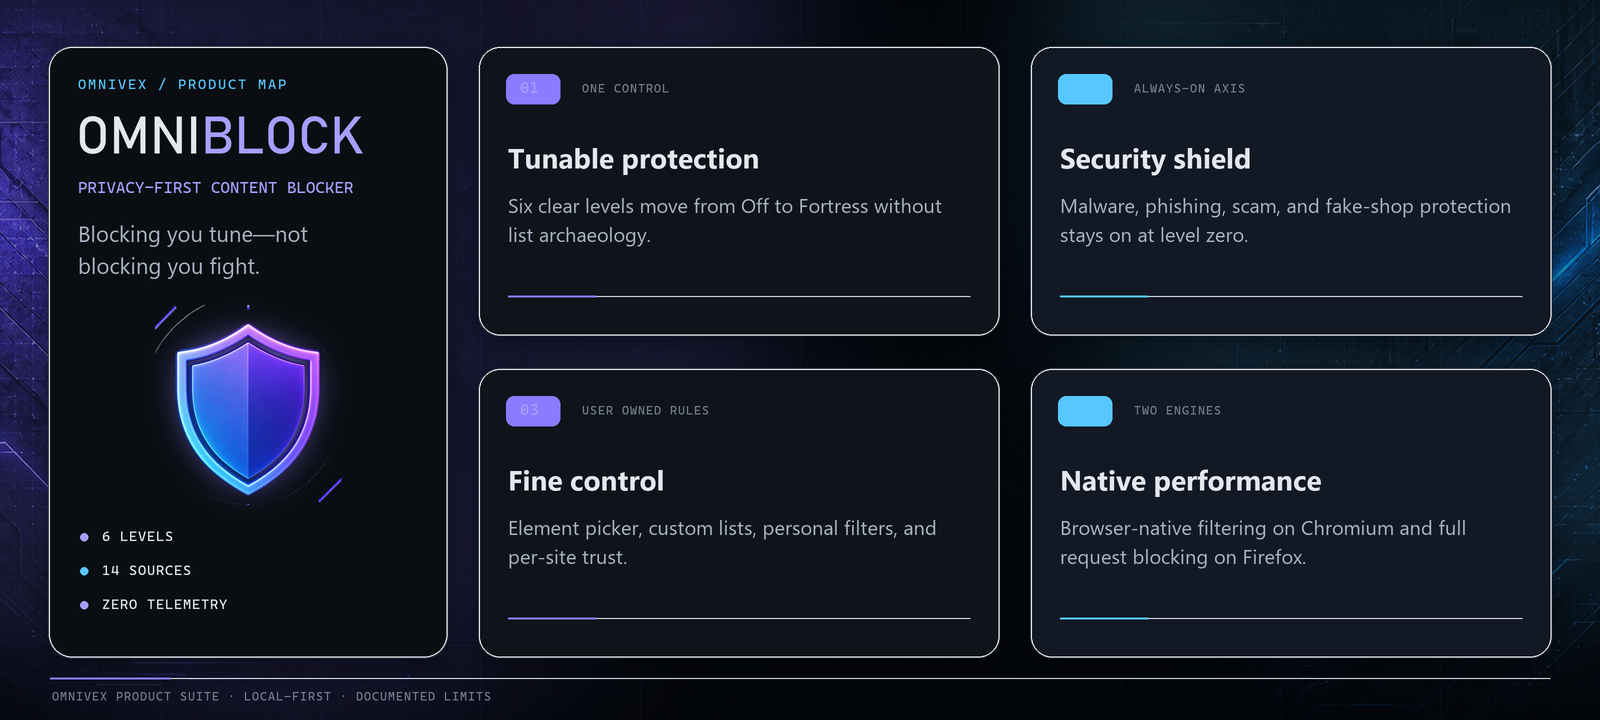
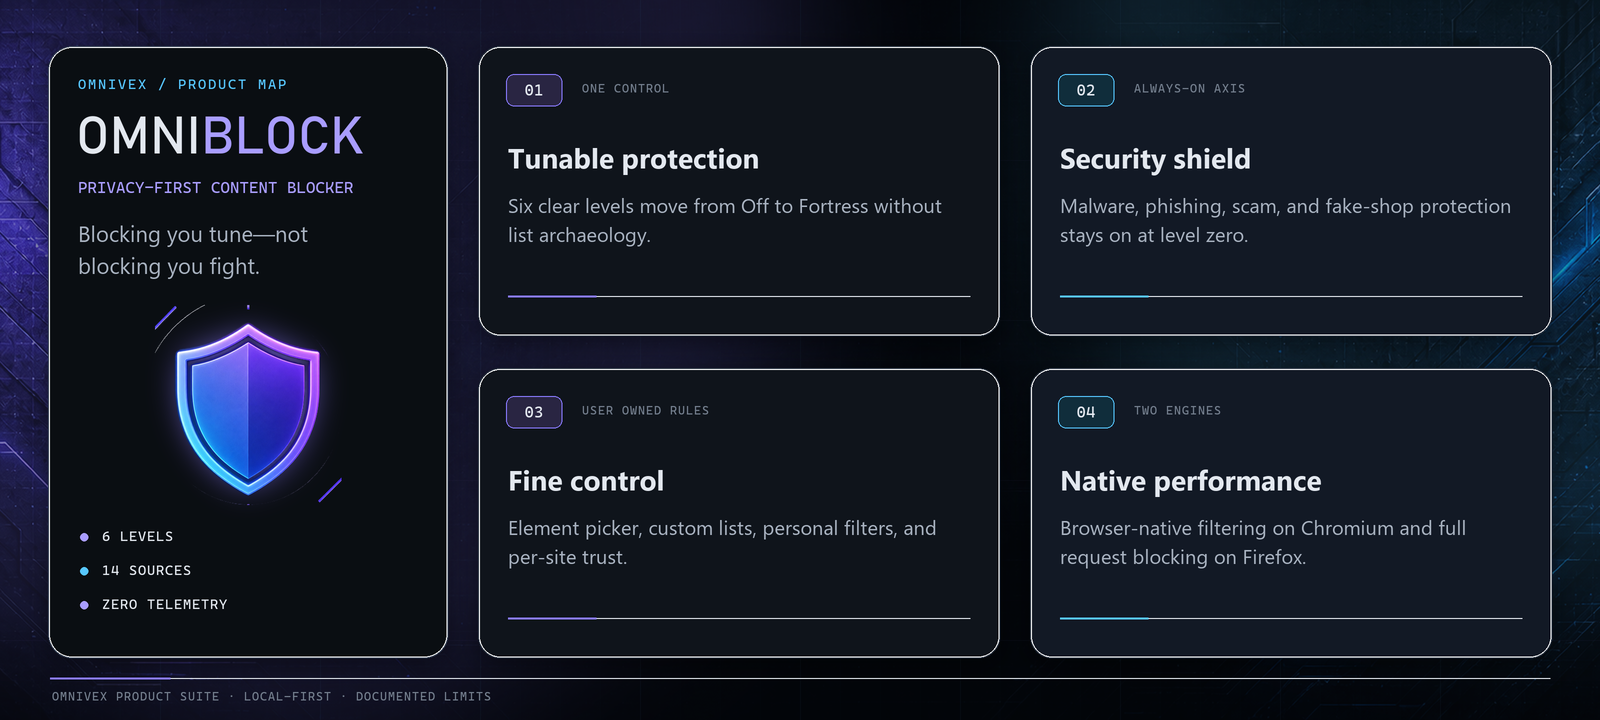
fix: show centered capability numbers (#12)

diff --git a/README.md b/README.md
@@ -58,7 +58,7 @@ It is built around one idea: blocking should be something you *tune*, not
 something you fight. One dial, six levels, and a security shield that stays on
 even when you turn everything else off.
 
-<img src="assets/presentation/capabilities.png" alt="OmniBlock capability map covering tunable protection, the always-on Security Shield, fine control, and native browser performance" width="100%">
+<img src="assets/presentation/capabilities.png?v=20260823-visible-numbers-v3" alt="OmniBlock capability map covering tunable protection, the always-on Security Shield, fine control, and native browser performance" width="100%">
 
 ### Six protection levels
 
